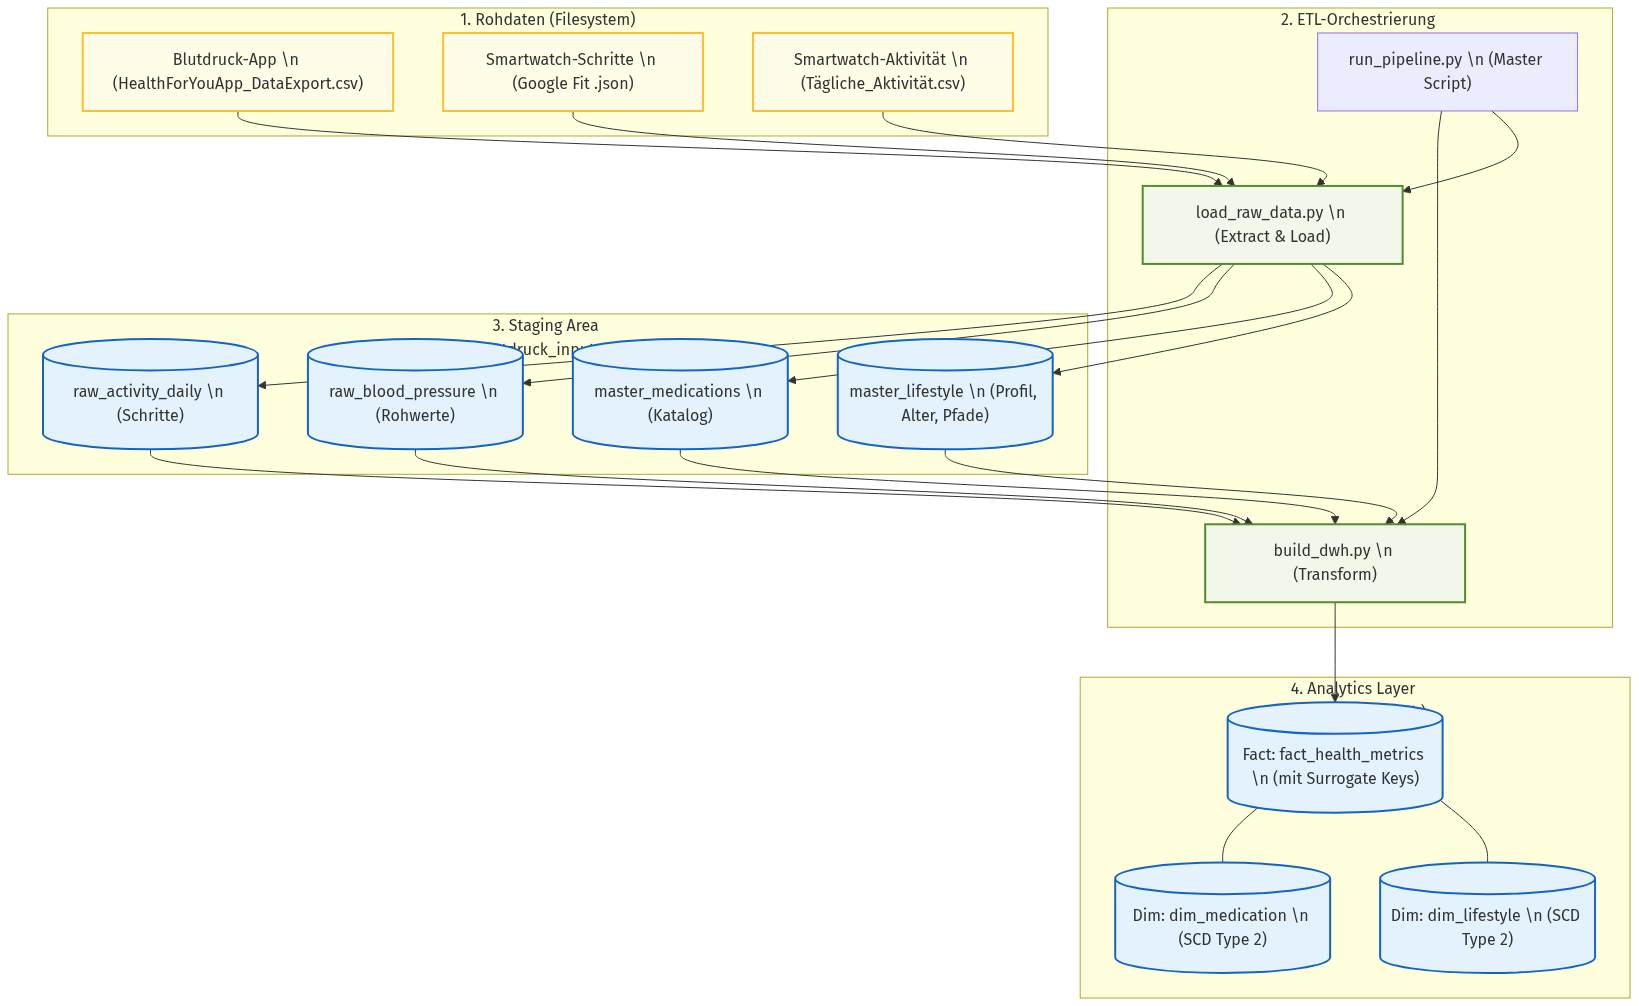
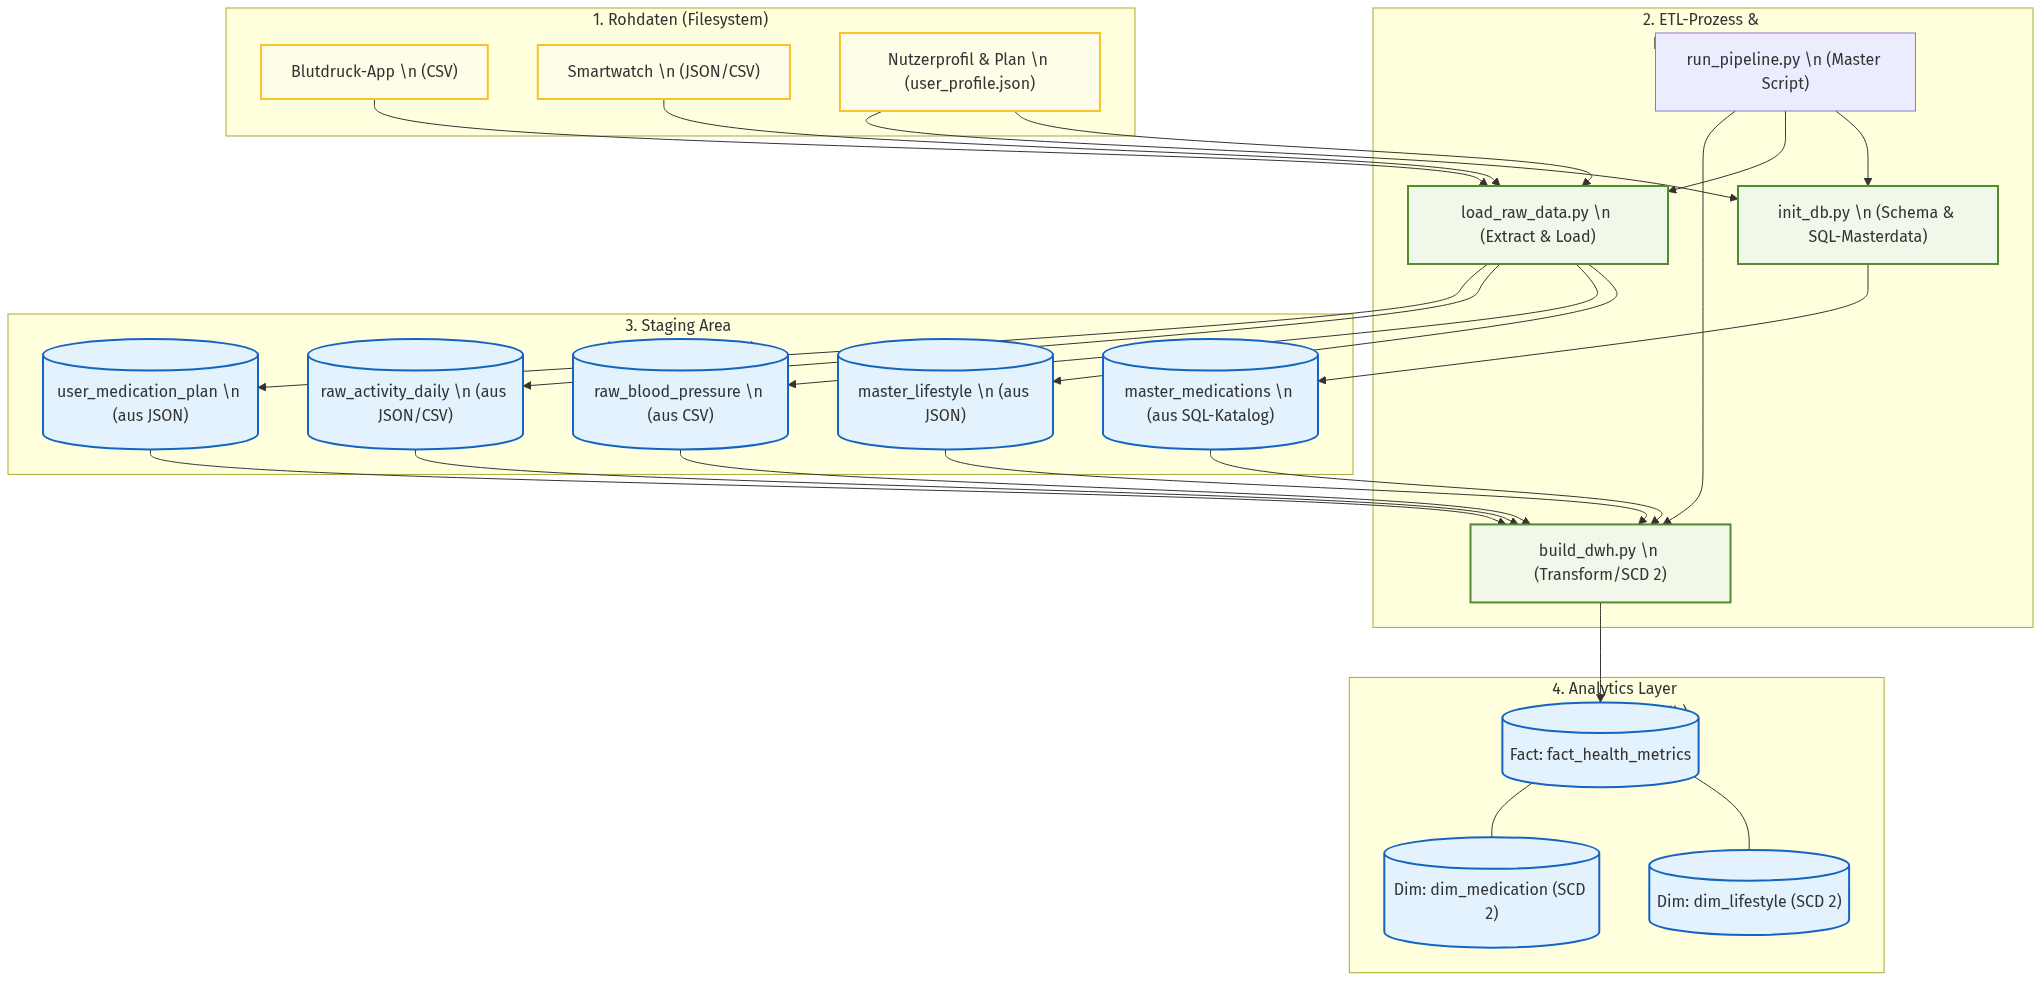
doxygen update

Changed region(s): [[0.0, 0.0, 1.0, 0.6422], [0.6534, 0.6728, 0.9957, 1.0], [0.809, 0.3364, 0.8401, 0.367]]

diff --git a/docs/doxygen_output/html/md__architektur_2_datenbanken_2_datenbank___uebersicht.html b/docs/doxygen_output/html/md__architektur_2_datenbanken_2_datenbank___uebersicht.html
@@ -105,40 +105,47 @@ Diagramm</div></div>
 <div class="line">    %% Datenquellen</div>
 <div class="line">    subgraph Quellen [&quot;1. Rohdaten (Filesystem)&quot;]</div>
 <div class="line">        direction LR</div>
-<div class="line">        CSV_BP[&quot;Blutdruck-App \n (HealthForYouApp_DataExport.csv)&quot;]</div>
-<div class="line">        JSON_STEPS[&quot;Smartwatch-Schritte \n (Google Fit .json)&quot;]</div>
-<div class="line">        CSV_ACT[&quot;Smartwatch-Aktivität \n (Tägliche_Aktivität.csv)&quot;]</div>
+<div class="line">        CSV_BP[&quot;Blutdruck-App \n (CSV)&quot;]</div>
+<div class="line">        JSON_ACT[&quot;Smartwatch \n (JSON/CSV)&quot;]</div>
+<div class="line">        USR_JSON[&quot;Nutzerprofil &amp; Plan \n (user_profile.json)&quot;]</div>
 <div class="line">    end</div>
 <div class="line"> </div>
 <div class="line">    %% ETL Prozess</div>
-<div class="line">    subgraph ETL [&quot;2. ETL-Orchestrierung (Python)&quot;]</div>
+<div class="line">    subgraph ETL [&quot;2. ETL-Prozess &amp; Initialisierung&quot;]</div>
 <div class="line">        P0[&quot;run_pipeline.py \n (Master Script)&quot;]</div>
-<div class="line">        P1[&quot;load_raw_data.py \n (Extract &amp; Load)&quot;]</div>
-<div class="line">        P2[&quot;build_dwh.py \n (Transform)&quot;]</div>
+<div class="line">        P1[&quot;init_db.py \n (Schema &amp; SQL-Masterdata)&quot;]</div>
+<div class="line">        P2[&quot;load_raw_data.py \n (Extract &amp; Load)&quot;]</div>
+<div class="line">        P3[&quot;build_dwh.py \n (Transform/SCD 2)&quot;]</div>
 <div class="line">    end</div>
 <div class="line"> </div>
 <div class="line">    %% Staging Area</div>
 <div class="line">    subgraph Staging [&quot;3. Staging Area (blutdruck_input.db)&quot;]</div>
 <div class="line">        direction TB</div>
-<div class="line">        T1[(&quot;master_lifestyle \n (Profil, Alter, Pfade)&quot;)]</div>
-<div class="line">        T2[(&quot;master_medications \n (Katalog)&quot;)]</div>
-<div class="line">        T3[(&quot;raw_blood_pressure \n (Rohwerte)&quot;)]</div>
-<div class="line">        T4[(&quot;raw_activity_daily \n (Schritte)&quot;)]</div>
+<div class="line">        T1[(&quot;master_lifestyle \n (aus JSON)&quot;)]</div>
+<div class="line">        T2[(&quot;master_medications \n (aus SQL-Katalog)&quot;)]</div>
+<div class="line">        T5[(&quot;user_medication_plan \n (aus JSON)&quot;)]</div>
+<div class="line">        T3[(&quot;raw_blood_pressure \n (aus CSV)&quot;)]</div>
+<div class="line">        T4[(&quot;raw_activity_daily \n (aus JSON/CSV)&quot;)]</div>
 <div class="line">    end</div>
 <div class="line"> </div>
 <div class="line">    %% Warehouse</div>
 <div class="line">    subgraph DWH [&quot;4. Analytics Layer (blutdruck_dwh.db)&quot;]</div>
-<div class="line">        F1[(&quot;Fact: fact_health_metrics \n (mit Surrogate Keys)&quot;)]</div>
-<div class="line">        D1[(&quot;Dim: dim_lifestyle \n (SCD Type 2)&quot;)]</div>
-<div class="line">        D2[(&quot;Dim: dim_medication \n (SCD Type 2)&quot;)]</div>
+<div class="line">        F1[(&quot;Fact: fact_health_metrics&quot;)]</div>
+<div class="line">        D1[(&quot;Dim: dim_lifestyle (SCD 2)&quot;)]</div>
+<div class="line">        D2[(&quot;Dim: dim_medication (SCD 2)&quot;)]</div>
 <div class="line">    end</div>
 <div class="line"> </div>
 <div class="line">    %% Verbindungen</div>
-<div class="line">    CSV_BP &amp; JSON_STEPS &amp; CSV_ACT --&gt; P1</div>
-<div class="line">    P0 --&gt; P1 &amp; P2</div>
-<div class="line">    P1 --&gt; T1 &amp; T2 &amp; T3 &amp; T4</div>
-<div class="line">    T1 &amp; T2 &amp; T3 &amp; T4 --&gt; P2</div>
-<div class="line">    P2 --&gt; F1</div>
+<div class="line">    USR_JSON --&gt; P2 &amp; P1</div>
+<div class="line">    CSV_BP &amp; JSON_ACT --&gt; P2</div>
+<div class="line">    </div>
+<div class="line">    P0 --&gt; P1 &amp; P2 &amp; P3</div>
+<div class="line">    </div>
+<div class="line">    P1 --&gt; T2</div>
+<div class="line">    P2 --&gt; T1 &amp; T3 &amp; T4 &amp; T5</div>
+<div class="line">    </div>
+<div class="line">    T1 &amp; T2 &amp; T3 &amp; T4 &amp; T5 --&gt; P3</div>
+<div class="line">    P3 --&gt; F1</div>
 <div class="line">    F1 --- D1 &amp; D2</div>
 <div class="line"> </div>
 <div class="line">    %% Styling</div>
@@ -146,9 +153,9 @@ Diagramm</div></div>
 <div class="line">    classDef db fill:#e3f2fd,stroke:#1565c0,stroke-width:2px;</div>
 <div class="line">    classDef script fill:#f1f8e9,stroke:#558b2f,stroke-width:2px;</div>
 <div class="line"> </div>
-<div class="line">    class CSV_BP,JSON_STEPS,CSV_ACT file;</div>
-<div class="line">    class T1,T2,T3,T4,F1,D1,D2 db;</div>
-<div class="line">    class P1,P2 script;</div>
+<div class="line">    class CSV_BP,JSON_ACT,USR_JSON file;</div>
+<div class="line">    class T1,T2,T3,T4,T5,F1,D1,D2 db;</div>
+<div class="line">    class P1,P2,P3 script;</div>
 </div><!-- fragment --><hr  />
 <h1 class="doxsection"><a class="anchor" id="autotoc_md13"></a>
 2. Schichtenarchitektur</h1>
